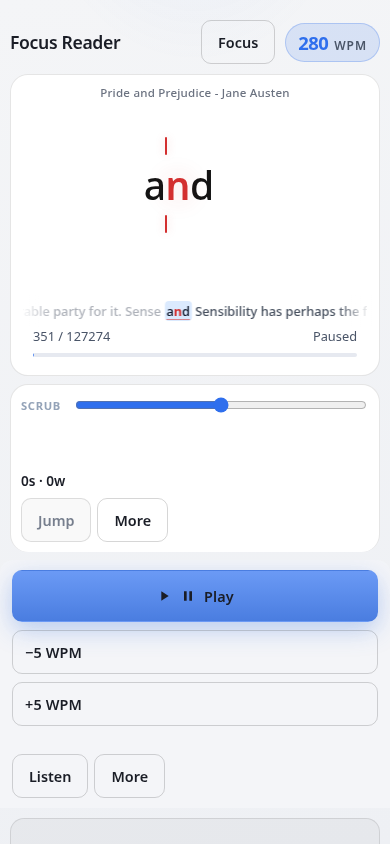
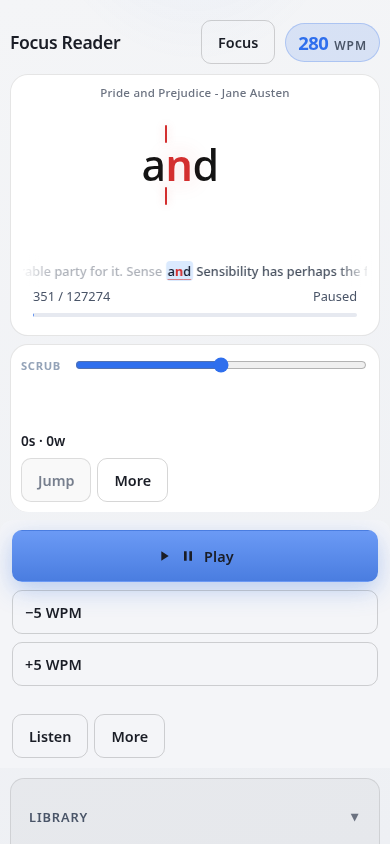
Tighten phone stage height; refresh theme screenshots (SW v17)

diff --git a/styles.css b/styles.css
@@ -2013,11 +2013,17 @@ body.sentence-strip-off .sentence-strip-wrap {
     backdrop-filter: blur(8px);
   }
   .player-col-center .stage {
-    min-height: 160px;
-    height: clamp(150px, 28vh, 220px);
+    min-height: 120px;
+    height: clamp(120px, 22vh, 180px);
+    max-height: 180px;
+    flex: 0 0 auto;
   }
   .player-col-center .word-row {
-    font-size: clamp(32px, 10vw, 56px);
+    font-size: clamp(36px, 11vw, 64px);
+    height: clamp(48px, 14vw, 72px);
+  }
+  .player-col-center .stage-wrap {
+    flex: 0 0 auto;
   }
   .sentence-strip-track {
     font-size: 0.8rem;

diff --git a/service-worker.js b/service-worker.js
@@ -1,5 +1,5 @@
 /* Focus Reader service worker — app-shell cache-first; Google APIs network-only */
-var CACHE = 'focus-reader-v16';
+var CACHE = 'focus-reader-v17';
 var PRECACHE = [
   './',
   './index.html',
